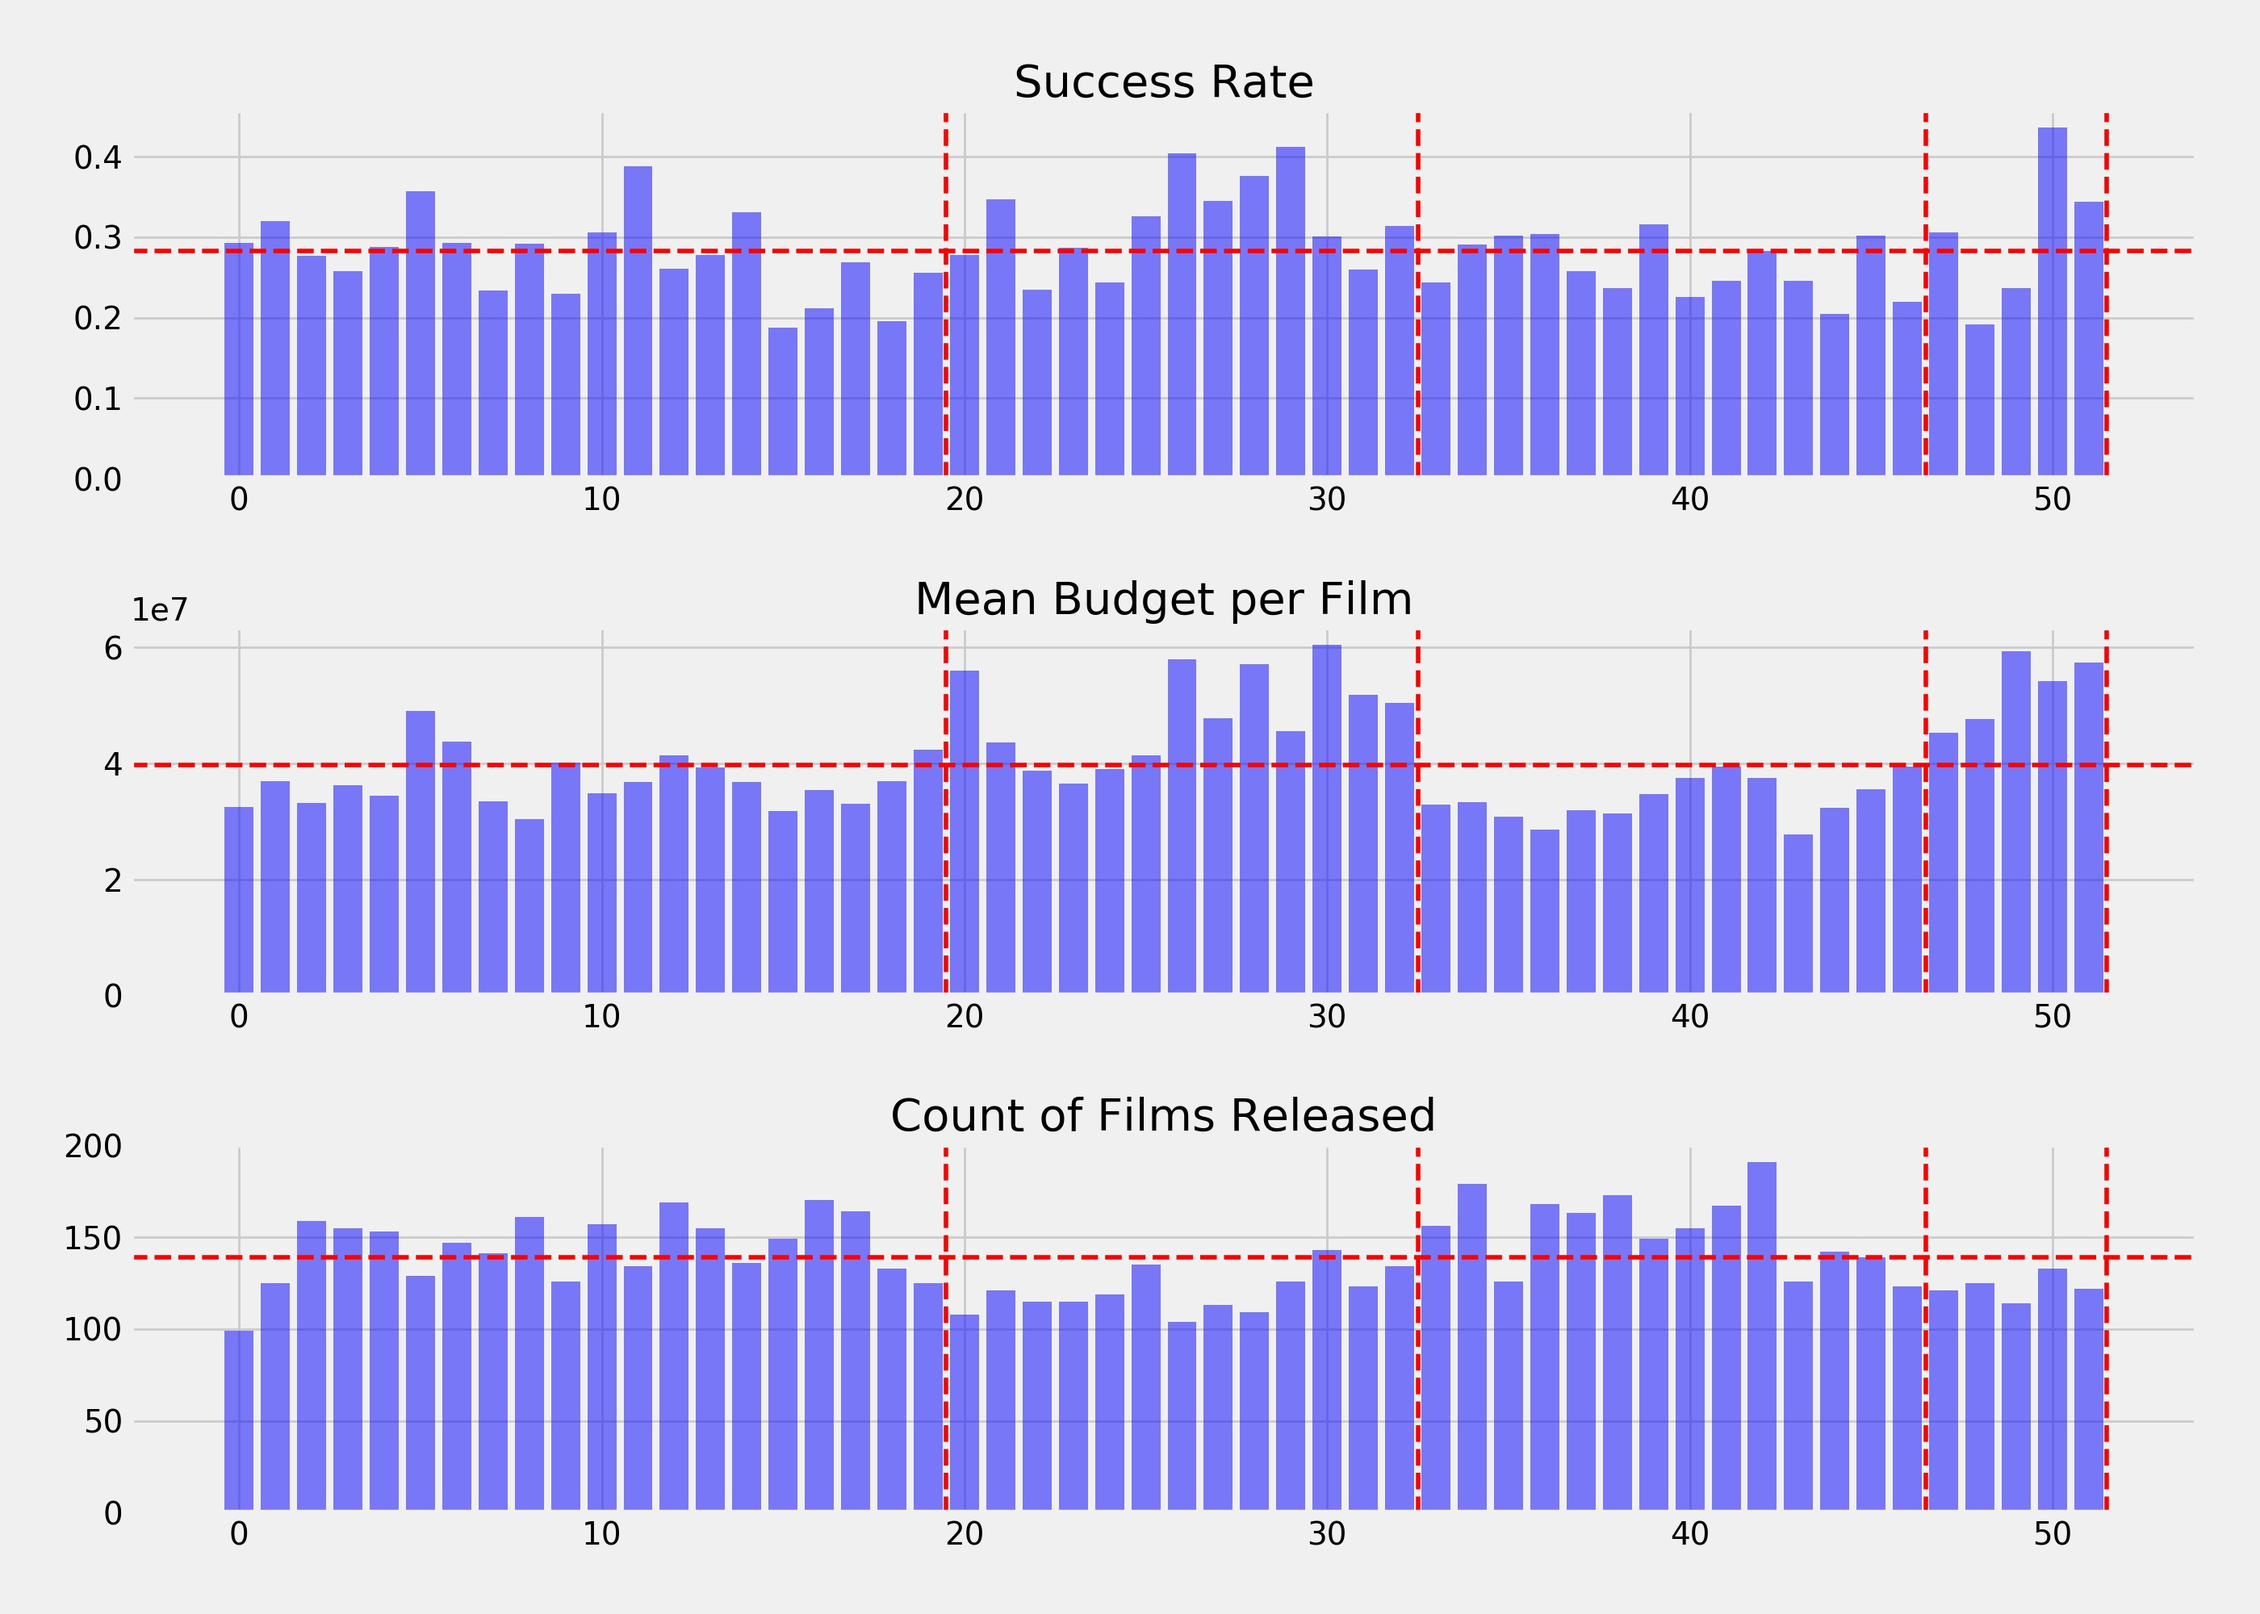
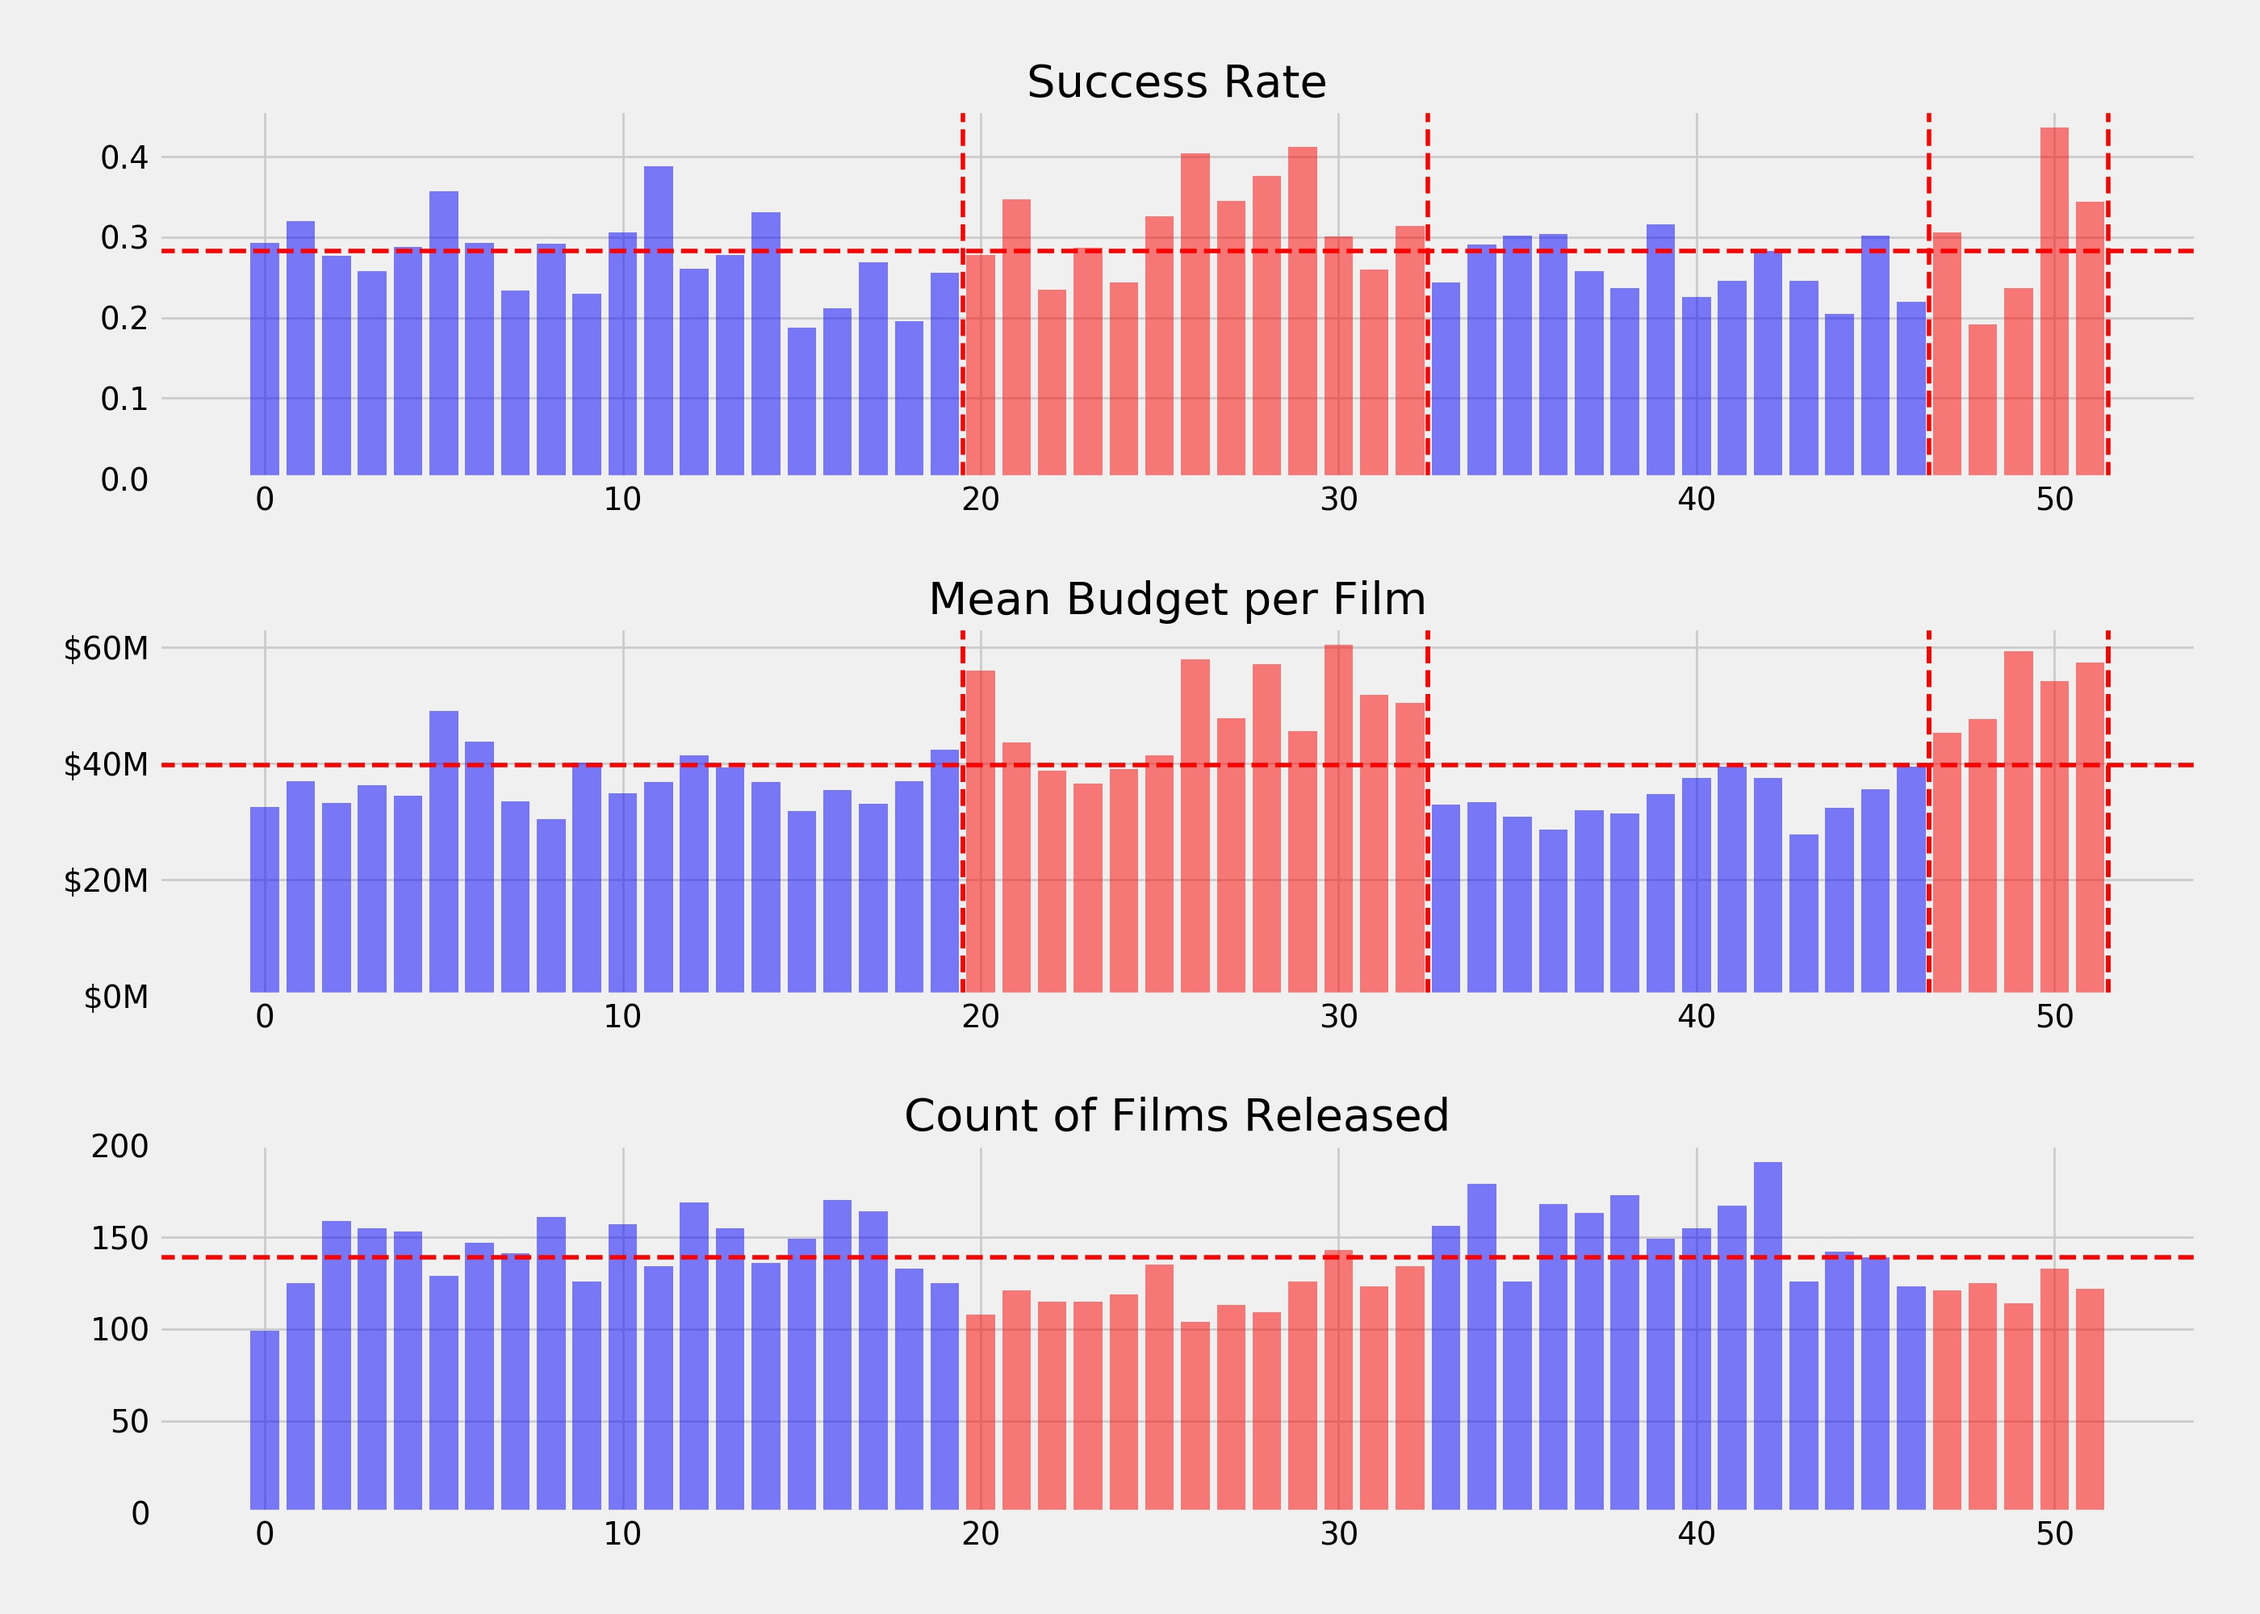
tuesday morning, starting analysis...

diff --git a/src/movies.py b/src/movies.py
@@ -59,7 +59,9 @@ m_df2['usa_gross_IA'] = m_df2.apply(lambda row: mf.inflation_adjustment(row['usa
                                 axis = 1)                            
 
 # get some columns to breakdown movies across various times
-# by month, week, etc.
+# by decade, year, month, week, etc.
+m_df2['release_decade'] = [x.year // 10 * 10 for x in m_df2['release_date']]
+m_df2['release_year'] = [x.year for x in m_df2['release_date']]
 m_df2['release_month'] = [x.month for x in m_df2['release_date']]
 m_df2['release_week'] = [x.timetuple().tm_yday // 7 for x in m_df2['release_date']]
 # 10 films released on/about NYE, move to week 51
@@ -86,47 +88,54 @@ rel_week_df['supply_norm'] = rel_week_df['supply'] / mean_supply
 
 
 # get side-by-side comparison of success_rate, mean_budget, and supply
-fig, ax = plt.subplots(3,1, figsize = (14, 10))
+pw_starts = [19.5, 46.5]
+pw_ends = [32.5, 51.5]
 xloc = np.arange(len(rel_week_df['supply']))
-ax[0].bar(xloc, rel_week_df['success_rate'], color = 'b', alpha = 0.5, label = 'Success Rate')
+c = ['r' if ((pw_starts[0] < x < pw_ends[0]) or (pw_starts[1] < x < pw_ends[1])) else 'b' for x in xloc]
+fig, ax = plt.subplots(3,1, figsize = (14, 10))
+ax[0].bar(xloc, rel_week_df['success_rate'], color = c, alpha = 0.5, label = 'Success Rate')
 ax[0].set_title('Success Rate')
 ax[0].axhline(sum(rel_week_df['successes']) / sum(rel_week_df['supply']), color = 'r', linestyle = '--', linewidth = 2)
-ax[0].axvline(19.5, color = 'r', linestyle = '--', linewidth = 2)
-ax[0].axvline(32.5, color = 'r', linestyle = '--', linewidth = 2)
-ax[0].axvline(46.5, color = 'r', linestyle = '--', linewidth = 2)
-ax[0].axvline(51.5, color = 'r', linestyle = '--', linewidth = 2)
-ax[1].bar(xloc, rel_week_df['mean_budget'], color = 'b', alpha = 0.5, label = 'Mean Budget')
+ax[0].axvline(pw_starts[0], color = 'r', linestyle = '--', linewidth = 2)
+ax[0].axvline(pw_ends[0], color = 'r', linestyle = '--', linewidth = 2)
+ax[0].axvline(pw_starts[1], color = 'r', linestyle = '--', linewidth = 2)
+ax[0].axvline(pw_ends[1], color = 'r', linestyle = '--', linewidth = 2)
+ax[1].bar(xloc, rel_week_df['mean_budget'], color = c, alpha = 0.5, label = 'Mean Budget')
 ax[1].set_title('Mean Budget per Film')
+ax[1].set_yticklabels([f'${x:0.0f}M' for x in np.linspace(0, 60, 4)])
 ax[1].axhline(sum(rel_week_df['total_budget']) / sum(rel_week_df['supply']), color = 'r', linestyle = '--', linewidth = 2)
-ax[1].axvline(19.5, color = 'r', linestyle = '--', linewidth = 2)
-ax[1].axvline(32.5, color = 'r', linestyle = '--', linewidth = 2)
-ax[1].axvline(46.5, color = 'r', linestyle = '--', linewidth = 2)
-ax[1].axvline(51.5, color = 'r', linestyle = '--', linewidth = 2)
-ax[2].bar(xloc, rel_week_df['supply'], color = 'b', alpha = 0.5, label = 'Count of Films Released')
+ax[1].axvline(pw_starts[0], color = 'r', linestyle = '--', linewidth = 2)
+ax[1].axvline(pw_ends[0], color = 'r', linestyle = '--', linewidth = 2)
+ax[1].axvline(pw_starts[1], color = 'r', linestyle = '--', linewidth = 2)
+ax[1].axvline(pw_ends[1], color = 'r', linestyle = '--', linewidth = 2)
+ax[2].bar(xloc, rel_week_df['supply'], color = c, alpha = 0.5, label = 'Count of Films Released')
 ax[2].set_title('Count of Films Released')
 ax[2].axhline(sum(rel_week_df['supply']) / len(rel_week_df['supply']), color = 'r', linestyle = '--', linewidth = 2)
-ax[2].axvline(19.5, color = 'r', linestyle = '--', linewidth = 2)
-ax[2].axvline(32.5, color = 'r', linestyle = '--', linewidth = 2)
-ax[2].axvline(46.5, color = 'r', linestyle = '--', linewidth = 2)
-ax[2].axvline(51.5, color = 'r', linestyle = '--', linewidth = 2)
+ax[1].axvline(pw_starts[0], color = 'r', linestyle = '--', linewidth = 2)
+ax[1].axvline(pw_ends[0], color = 'r', linestyle = '--', linewidth = 2)
+ax[1].axvline(pw_starts[1], color = 'r', linestyle = '--', linewidth = 2)
+ax[1].axvline(pw_ends[1], color = 'r', linestyle = '--', linewidth = 2)
 plt.tight_layout(pad = 2)
 plt.savefig('images/comparison.jpeg')
 plt.close()
 
-# Calculate the differences between success and budget/supply
-diff1 = rel_week_df['marg_success_rate'] - rel_week_df['mean_budget_norm'] 
-c1 = ['g' if x > 0 else 'r' for x in diff1]
-diff2 = rel_week_df['marg_success_rate'] - rel_week_df['supply_norm']
-c2 = ['g' if x > 0 else 'r' for x in diff2]
+# Add an is_prime flag
+m_df2['is_prime'] = m_df2.apply(lambda row: mf.determine_prime(row['release_week'], pw_starts, pw_ends), axis = 1)
 
-# Create a horizontal bar chart for the differences....
-fig, ax = plt.subplots(1,2, figsize = (10,14))
-xloc = np.arange(len(rel_week_df['mean_budget_norm']))
-ax[0].barh(xloc[::-1], diff1[::-1], align = 'center', alpha = 0.4, color = c1, label = 'Success v Budget')
-ax[1].barh(xloc[::-1], diff2[::-1], align = 'center', alpha = 0.4, color = c2, label = 'Success v Supply')
-plt.legend()
-plt.savefig('images/differences.jpeg')
-plt.close()
+# # Calculate the differences between success and budget/supply
+# diff1 = rel_week_df['marg_success_rate'] - rel_week_df['mean_budget_norm'] 
+# c1 = ['g' if x > 0 else 'r' for x in diff1]
+# diff2 = rel_week_df['marg_success_rate'] - rel_week_df['supply_norm']
+# c2 = ['g' if x > 0 else 'r' for x in diff2]
+
+# # Create a horizontal bar chart for the differences....
+# fig, ax = plt.subplots(1,2, figsize = (10,14))
+# xloc = np.arange(len(rel_week_df['mean_budget_norm']))
+# ax[0].barh(xloc[::-1], diff1[::-1], align = 'center', alpha = 0.4, color = c1, label = 'Success v Budget')
+# ax[1].barh(xloc[::-1], diff2[::-1], align = 'center', alpha = 0.4, color = c2, label = 'Success v Supply')
+# plt.legend()
+# plt.savefig('images/differences.jpeg')
+# plt.close()
 
 
 if __name__ == '__main__':

diff --git a/src/movie_func.py b/src/movie_func.py
@@ -23,6 +23,14 @@ def inflation_adjustment(amt, date, end = end_date):
         return amt * adj
     else:
         return amt
+
+def determine_prime(week, starts, ends):
+    prime = 0
+    for i in range(len(starts)):
+        if starts[i] <= week <= ends[i]:
+            prime = 1
+            break
+    return prime
         
 if __name__ == '__main__':
     pass

diff --git a/src/analysis.py b/src/analysis.py
@@ -1,0 +1,13 @@
+
+
+
+dec = m_df2.groupby('release_decade').agg({'title': 'count',
+                                    'is_success': 'sum'})
+dec['success_rate'] = dec['is_success'] / dec['title']
+
+
+
+
+
+if __name__ == '__main__':
+    pass
